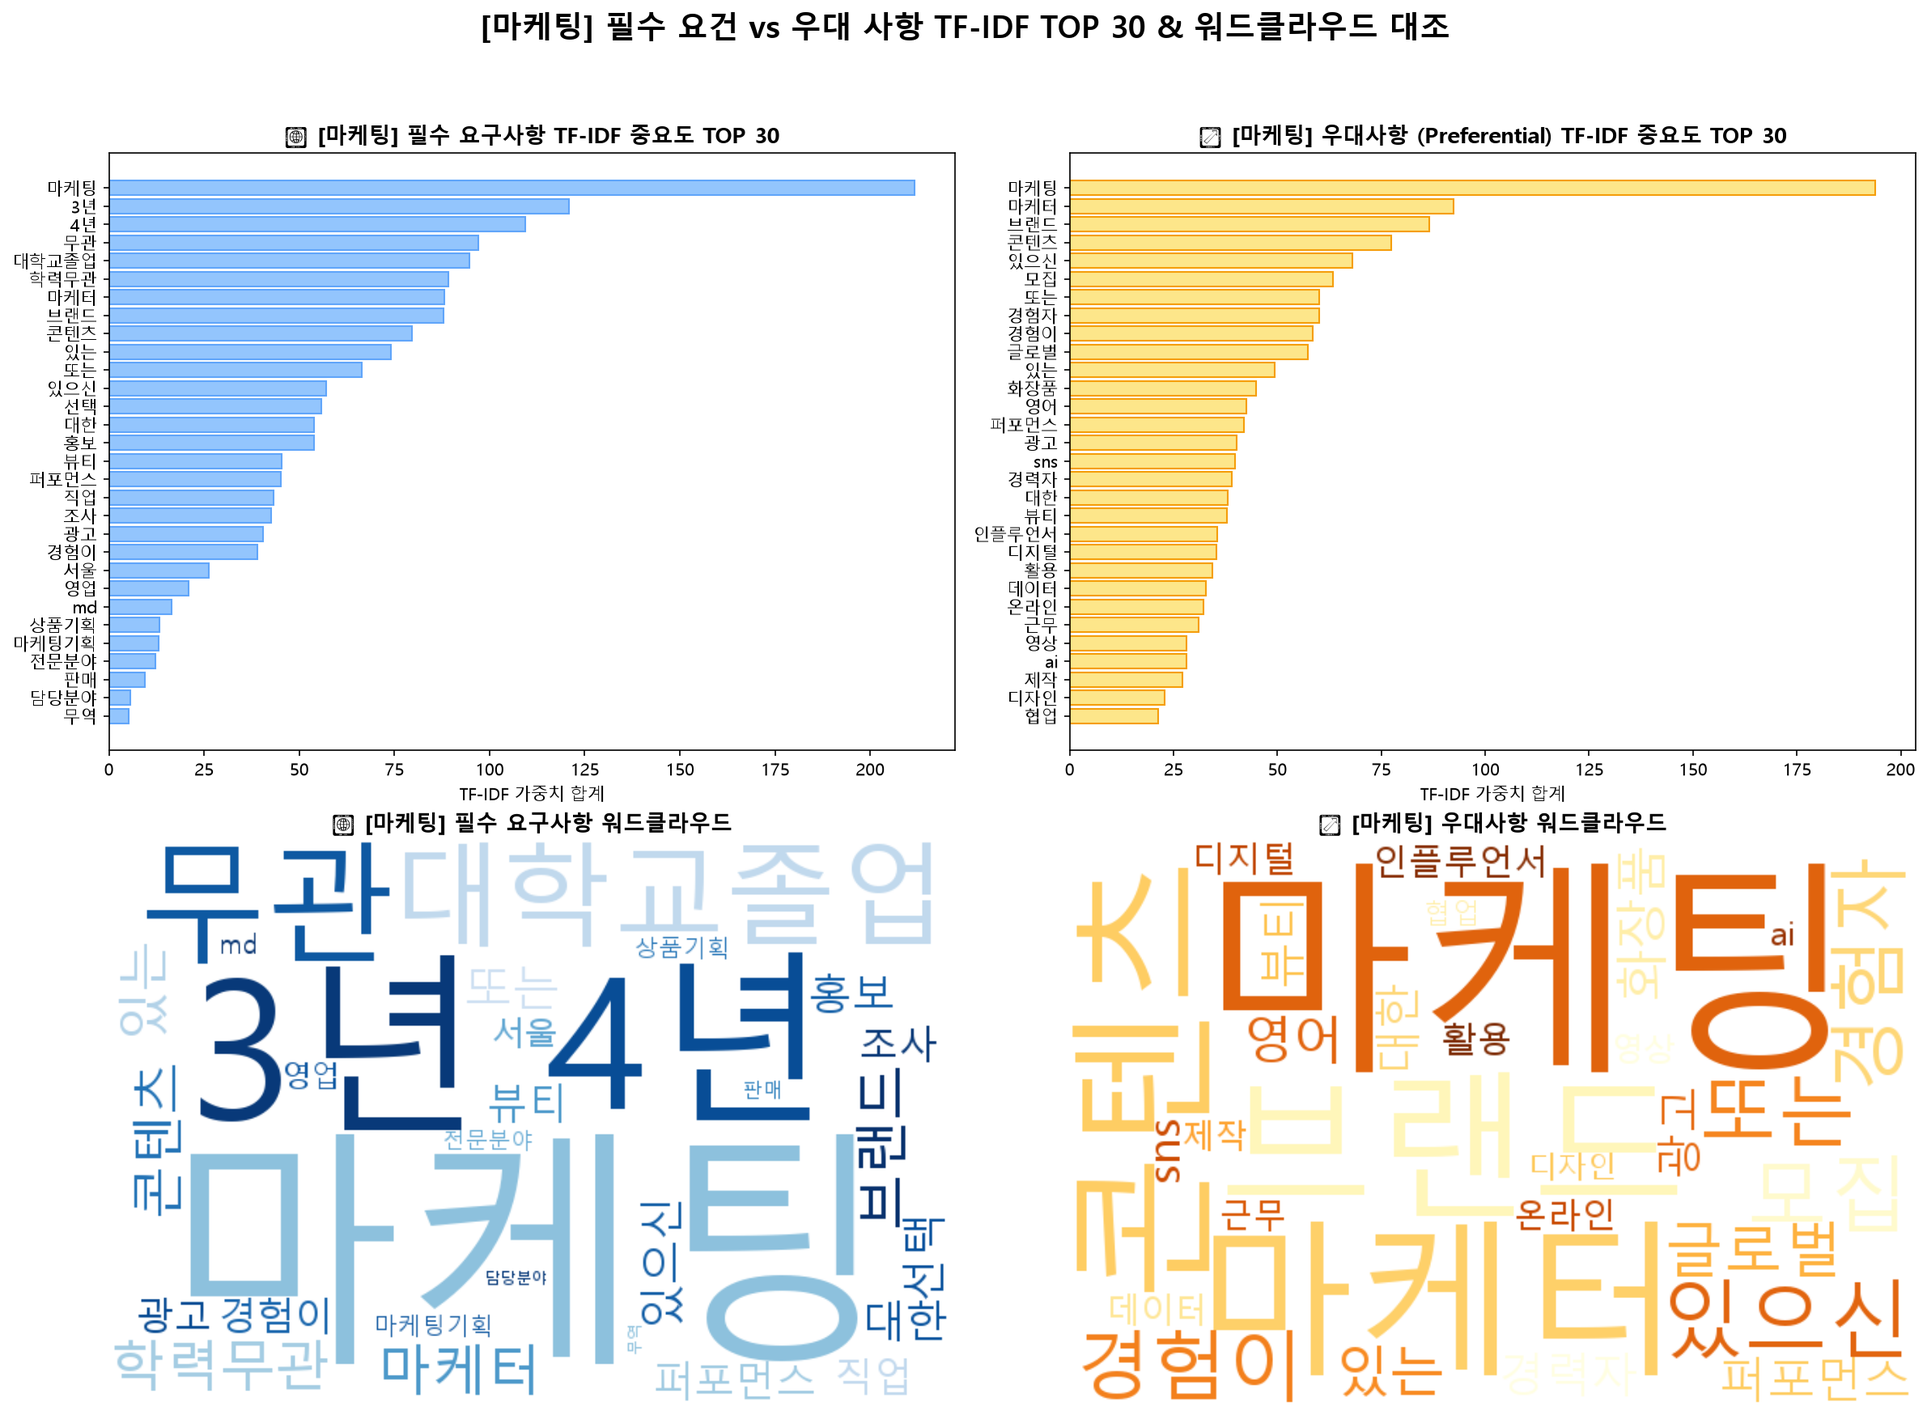
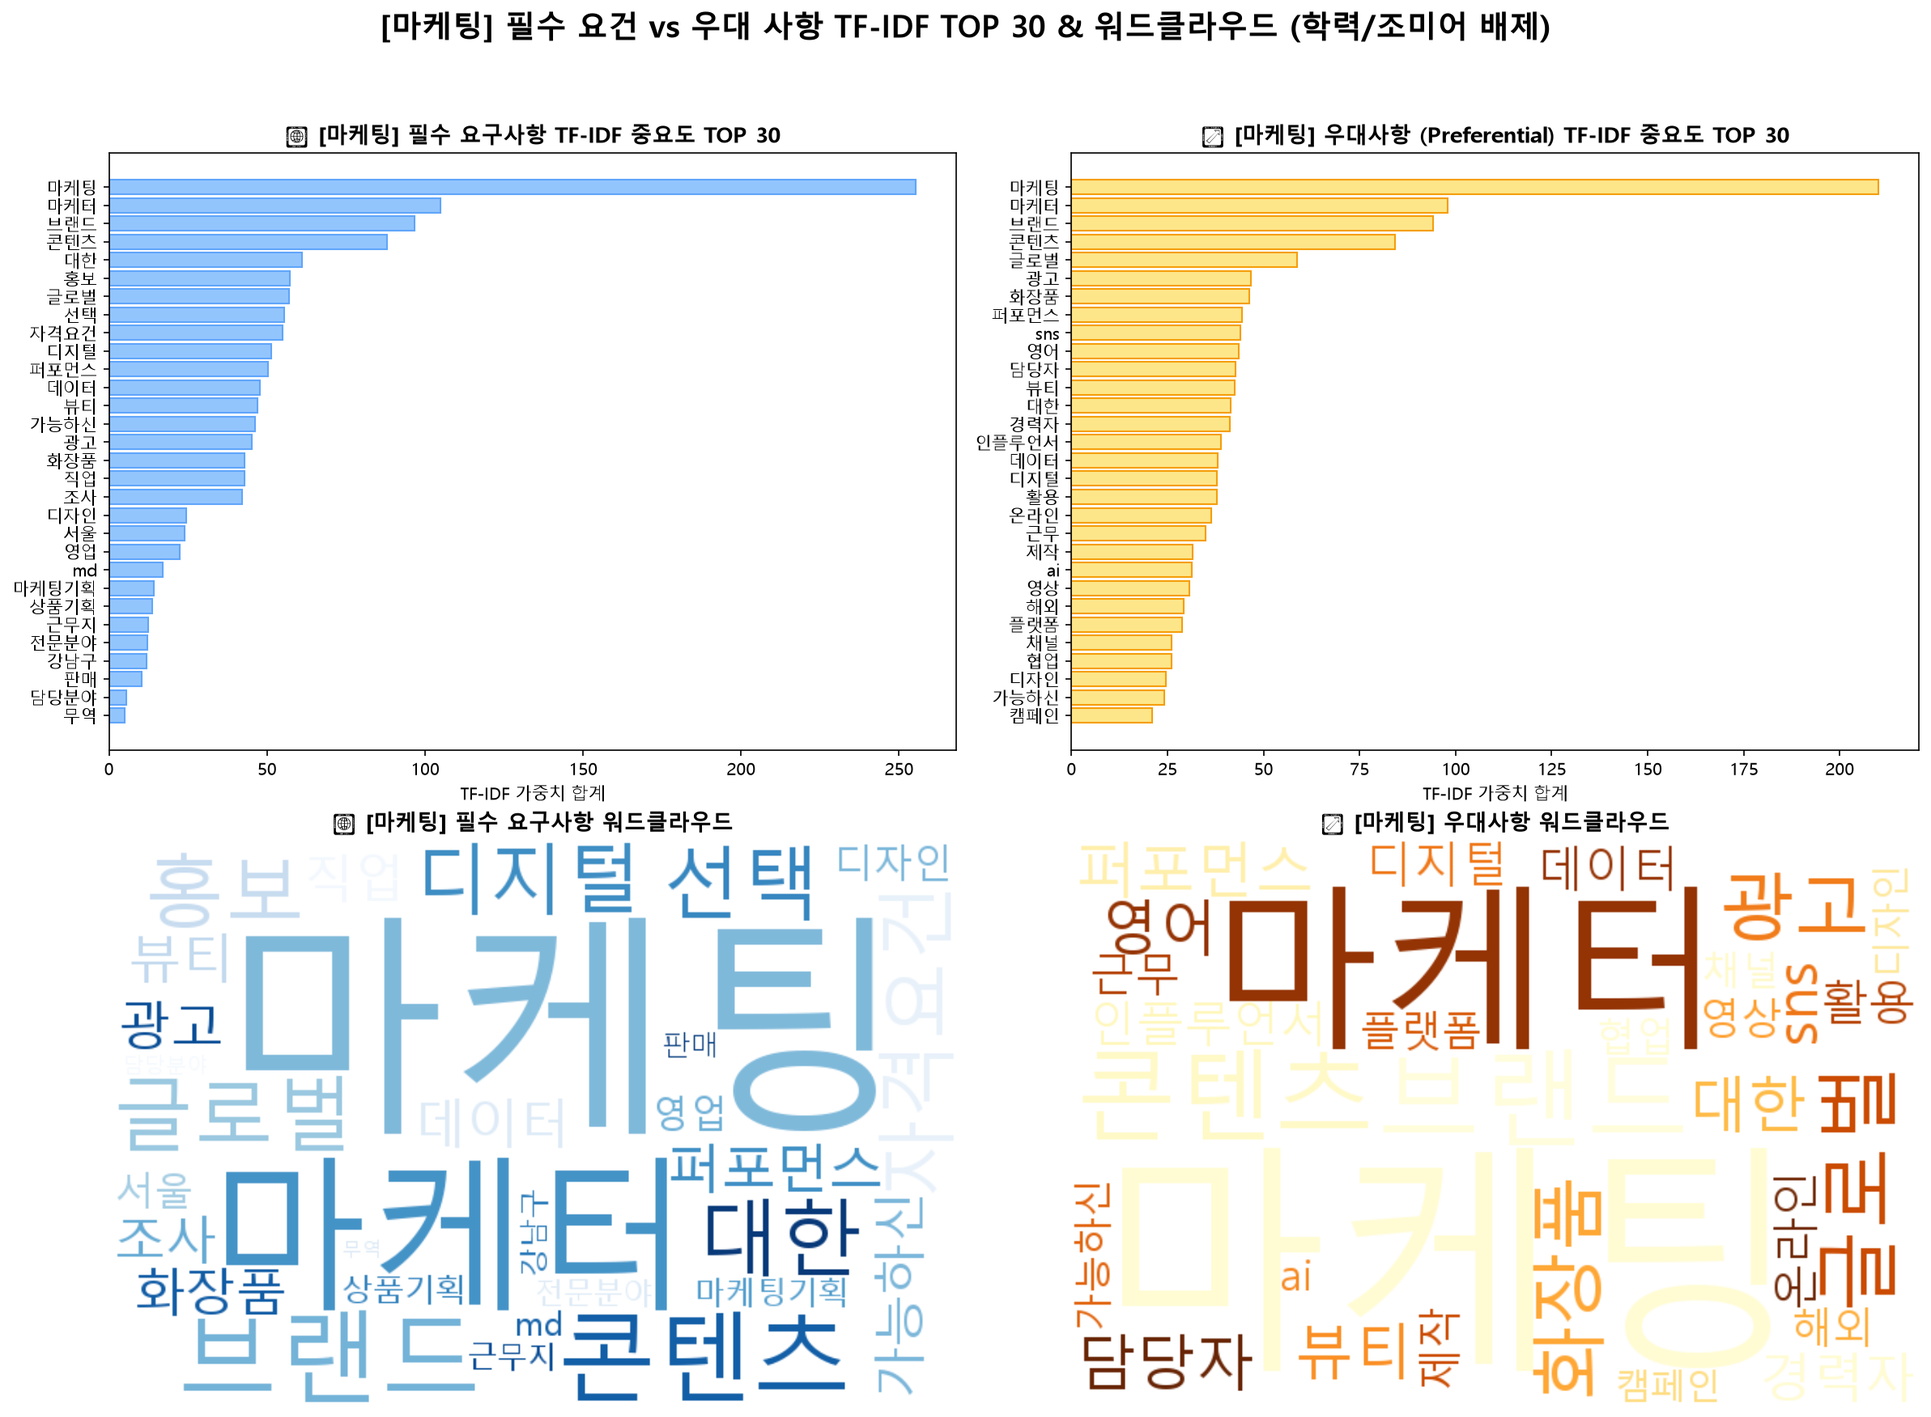
feat: 학력 관련 용어 및 서술어(또는, 있는, 있으신 등) 배제 불용어 정제 후 대시보드 및 EDA 보고서 TF-IDF/WordCloud 일괄 업데이트

diff --git a/report/dashboard_consolidated_mock.py b/report/dashboard_consolidated_mock.py
@@ -610,11 +610,17 @@ with tab0:
     # TF-IDF 및 불용어 고속 정제 헬퍼
     # ---------------------------------------------------------------------
     P1_STOPWORDS = set([
-        '우대', '기타', '작성', '관련', '제출', '포함', '가능자', '업무', '경험', '능력',
-        '이상', '보유자', '스킬', '담당', '직무', '성실', '원활', '커뮤니케이션', '우대사항',
-        '필수', '자격', '조건', '사항', '경력', '신입', '전공', '학력', '부문', '채용', '지원',
-        '가지', '통해', '기반', '수행', '분야', '상세', '확인', '내용', '진행', '이하', '미만',
-        '서비스', '관리', '구축', '운영', '개발', '분석', '기획', '전략', '지원자', '우대함'
+        '4년', '4년제', '대졸', '대학교졸업', '초대졸', '학력', '학력무관', '석사', '박사',
+        '졸업', '학위', '대학교', '대학', '대학원', '고졸', '전공', '학점', '재학', '수료',
+        '또는', '있는', '있으신', '경험자', '모집', '우수자', '경험이', '관련', '이상',
+        '우대', '기타', '작성', '제출', '포함', '가능자', '업무', '경험', '능력', '보유자',
+        '스킬', '담당', '직무', '성실', '원활', '커뮤니케이션', '우대사항', '필수', '자격',
+        '조건', '사항', '경력', '신입', '부문', '채용', '지원', '가지', '통해', '기반',
+        '수행', '분야', '상세', '확인', '내용', '진행', '이하', '미만', '서비스', '관리',
+        '구축', '운영', '개발', '분석', '기획', '전략', '지원자', '우대함', '가능', '관련학',
+        '관련학과', '소지자', '보유', '능숙자', '우대조건', '하여', '따른', '위한', '대해',
+        '따라', '통한', '있는자', '가능한', '자로서', '등의', '및', '관련된', '3년', '5년',
+        '1년', '2년', '10년', '무관', '년'
     ])
 
     def clean_p1_text(text):

diff --git a/report/saramin_naver_eda_report.md b/report/saramin_naver_eda_report.md
@@ -387,191 +387,191 @@ TF-IDF 텍스트 마이닝 기법을 적용하기 이전 단순 빈도 분석에
 
 ---
 
-## VI. 5대 직무별 필수 요구사항 vs 우대사항 TF-IDF 및 워드클라우드 세부 심층 EDA
+## VI. 5대 직무별 필수 요구사항 vs 우대사항 TF-IDF 및 워드클라우드 세부 심층 EDA (학력/조미어 배제 정밀 쿼리)
 
-본 섹션은 사람인 채용공고 5,000건 데이터셋(`recruit_processed.db`)에서 5대 직무별 공고 제목(title)과 필수 요건(requirement), 우대 사항(preferential) 텍스트를 공백으로 결합한 후, HTML 태그 및 불용어를 고속 전처리하여 추출한 **TF-IDF 상위 30개 키워드 서브플롯**과 **워드클라우드 서브플롯** 분석 결과입니다.
+본 섹션은 사람인 채용공고 5,000건 데이터셋(`recruit_processed.db`)에서 5대 직무별 공고 제목(title)과 필수 요건(requirement), 우대 사항(preferential) 텍스트를 공백으로 결합한 후, **학력 관련 용어(대졸, 4년제, 학력무관 등) 및 서술어/조미어(또는, 있는, 있으신, 경험자, 모집 등)를 전면 제거**하여 순수한 실무 기술/역량 키워드 중심으로 재추출한 **TF-IDF 상위 30개 키워드 서브플롯**과 **워드클라우드 서브플롯** 분석 결과입니다.
 
-### 기획/전략 직무: 필수 요구사항 vs 우대사항 텍스트 심층 분석
+### 기획/전략 직무: 필수 요구사항 vs 우대사항 텍스트 심층 분석 (학력/조미어 배제)
 
 ![기획/전략 TF-IDF & WordCloud](../images/plot11_plan_tfidf_wordcloud.png)
 
-#### [필수 자격 요건 TOP 10 TF-IDF 가중치 테이블]
+#### [필수 자격 요건 TOP 10 TF-IDF 가중치 테이블 (학력/조미어 배제)]
 | 순위 | 필수 키워드 | TF-IDF 가중치 |
 |:---:|:---|:---:|
-| 1 | 4년 | 145.26 |
-| 2 | 대학교졸업 | 132.16 |
-| 3 | 3년 | 131.22 |
-| 4 | 무관 | 100.47 |
-| 5 | 5년 | 93.15 |
-| 6 | 있는 | 89.45 |
-| 7 | 또는 | 84.69 |
-| 8 | 학력무관 | 78.40 |
-| 9 | 모집 | 74.10 |
-| 10 | 사업 | 72.29 |
+| 1 | 사업 | 81.16 |
+| 2 | 자격요건 | 66.73 |
+| 3 | 사업기획 | 64.02 |
+| 4 | 역량 | 55.32 |
+| 5 | 프로젝트 | 55.26 |
+| 6 | 대한 | 54.15 |
+| 7 | 문서 | 51.64 |
+| 8 | 가능하신 | 51.30 |
+| 9 | 글로벌 | 50.30 |
+| 10 | 비즈니스 | 48.70 |
 
-#### [우대사항 TOP 10 TF-IDF 가중치 테이블]
+#### [우대사항 TOP 10 TF-IDF 가중치 테이블 (학력/조미어 배제)]
 | 순위 | 우대 키워드 | TF-IDF 가중치 |
 |:---:|:---|:---:|
-| 1 | 또는 | 91.37 |
-| 2 | 경험자 | 87.69 |
-| 3 | 모집 | 70.54 |
-| 4 | 있으신 | 60.64 |
-| 5 | 사업 | 57.38 |
-| 6 | 프로젝트 | 55.32 |
-| 7 | 있는 | 52.70 |
-| 8 | 글로벌 | 51.17 |
-| 9 | 우수자 | 51.06 |
-| 10 | 경험이 | 49.98 |
+| 1 | 프로젝트 | 63.97 |
+| 2 | 사업 | 61.66 |
+| 3 | 담당자 | 58.32 |
+| 4 | 글로벌 | 55.18 |
+| 5 | 영어 | 54.41 |
+| 6 | 활용 | 52.59 |
+| 7 | 대한 | 52.53 |
+| 8 | ai | 51.04 |
+| 9 | 사업기획 | 50.45 |
+| 10 | 보유역량 | 43.19 |
 
 #### [기획/전략 데이터 분석 인사이트]
-**[기획/전략]** 직무 분석 결과, 필수 자격 요건에서는 **4년, 대학교졸업, 3년, 무관, 5년** 키워드가 핵심 서류 진입 장벽(Threshold)으로 나타났으며, 우대사항 영역에서는 **또는, 경험자, 모집, 있으신, 사업** 키워드가 면접 가산점 및 채용 결정의 주요 요소로 작동하고 있습니다.
+학력 관련 용어(대졸, 4년제 등) 및 서술어(또는, 있는, 있으신 등)를 전면 배제하고 정밀 재집계한 결과, **[기획/전략]** 직무의 필수 자격 항목에서는 **사업, 자격요건, 사업기획, 역량, 프로젝트** 스킬이 서류 합격의 핵심 기술 임계값으로 드러났으며, 우대사항 영역에서는 **프로젝트, 사업, 담당자, 글로벌, 영어** 기술이 면접 가산점의 핵심 경쟁력으로 작용하고 있습니다.
 
 ---
 
-### 인사/노무 직무: 필수 요구사항 vs 우대사항 텍스트 심층 분석
+### 인사/노무 직무: 필수 요구사항 vs 우대사항 텍스트 심층 분석 (학력/조미어 배제)
 
 ![인사/노무 TF-IDF & WordCloud](../images/plot12_hr_tfidf_wordcloud.png)
 
-#### [필수 자격 요건 TOP 10 TF-IDF 가중치 테이블]
+#### [필수 자격 요건 TOP 10 TF-IDF 가중치 테이블 (학력/조미어 배제)]
 | 순위 | 필수 키워드 | TF-IDF 가중치 |
 |:---:|:---|:---:|
-| 1 | 3년 | 153.58 |
-| 2 | 인사 | 141.66 |
-| 3 | 4년 | 126.34 |
-| 4 | hr | 114.60 |
-| 5 | 대학교졸업 | 113.75 |
-| 6 | 무관 | 104.77 |
-| 7 | 학력무관 | 93.44 |
-| 8 | 5년 | 85.10 |
-| 9 | 총무 | 81.62 |
-| 10 | 모집 | 80.76 |
+| 1 | 인사 | 168.67 |
+| 2 | hr | 134.87 |
+| 3 | 대학졸업 | 96.18 |
+| 4 | 총무 | 95.60 |
+| 5 | 담당자 | 82.17 |
+| 6 | 실무 | 66.47 |
+| 7 | 회계 | 64.62 |
+| 8 | 경영지원 | 57.39 |
+| 9 | 가능하신 | 56.17 |
+| 10 | 급여 | 55.52 |
 
-#### [우대사항 TOP 10 TF-IDF 가중치 테이블]
+#### [우대사항 TOP 10 TF-IDF 가중치 테이블 (학력/조미어 배제)]
 | 순위 | 우대 키워드 | TF-IDF 가중치 |
 |:---:|:---|:---:|
-| 1 | 인사 | 119.93 |
-| 2 | hr | 102.70 |
-| 3 | 모집 | 85.62 |
-| 4 | 경험자 | 81.34 |
-| 5 | 총무 | 73.47 |
-| 6 | 있으신 | 72.16 |
-| 7 | 담당자 | 64.36 |
-| 8 | 회계 | 63.35 |
-| 9 | 또는 | 57.19 |
-| 10 | 우수자 | 53.03 |
+| 1 | 인사 | 133.66 |
+| 2 | hr | 108.84 |
+| 3 | 총무 | 82.18 |
+| 4 | 담당자 | 70.02 |
+| 5 | 회계 | 67.33 |
+| 6 | 인사총무 | 56.90 |
+| 7 | 경력자 | 55.84 |
+| 8 | 근무 | 55.27 |
+| 9 | 경력직 | 53.54 |
+| 10 | 경영지원 | 52.07 |
 
 #### [인사/노무 데이터 분석 인사이트]
-**[인사/노무]** 직무 분석 결과, 필수 자격 요건에서는 **3년, 인사, 4년, hr, 대학교졸업** 키워드가 핵심 서류 진입 장벽(Threshold)으로 나타났으며, 우대사항 영역에서는 **인사, hr, 모집, 경험자, 총무** 키워드가 면접 가산점 및 채용 결정의 주요 요소로 작동하고 있습니다.
+학력 관련 용어(대졸, 4년제 등) 및 서술어(또는, 있는, 있으신 등)를 전면 배제하고 정밀 재집계한 결과, **[인사/노무]** 직무의 필수 자격 항목에서는 **인사, hr, 대학졸업, 총무, 담당자** 스킬이 서류 합격의 핵심 기술 임계값으로 드러났으며, 우대사항 영역에서는 **인사, hr, 총무, 담당자, 회계** 기술이 면접 가산점의 핵심 경쟁력으로 작용하고 있습니다.
 
 ---
 
-### 회계/재무 직무: 필수 요구사항 vs 우대사항 텍스트 심층 분석
+### 회계/재무 직무: 필수 요구사항 vs 우대사항 텍스트 심층 분석 (학력/조미어 배제)
 
 ![회계/재무 TF-IDF & WordCloud](../images/plot13_acc_tfidf_wordcloud.png)
 
-#### [필수 자격 요건 TOP 10 TF-IDF 가중치 테이블]
+#### [필수 자격 요건 TOP 10 TF-IDF 가중치 테이블 (학력/조미어 배제)]
 | 순위 | 필수 키워드 | TF-IDF 가중치 |
 |:---:|:---|:---:|
-| 1 | 회계 | 153.70 |
-| 2 | 3년 | 126.93 |
-| 3 | 4년 | 99.40 |
-| 4 | 무관 | 96.04 |
-| 5 | 학력무관 | 90.84 |
-| 6 | 대학교졸업 | 85.68 |
-| 7 | 대학졸업 | 73.85 |
-| 8 | 모집 | 68.04 |
-| 9 | 5년 | 67.85 |
-| 10 | 재무 | 67.08 |
+| 1 | 회계 | 180.59 |
+| 2 | 대학졸업 | 97.32 |
+| 3 | 재무 | 76.41 |
+| 4 | 세무 | 74.38 |
+| 5 | 담당자 | 69.80 |
+| 6 | 경력직 | 68.27 |
+| 7 | 재무회계 | 62.40 |
+| 8 | 자격요건 | 53.00 |
+| 9 | 가능하신 | 52.85 |
+| 10 | 활용 | 52.19 |
 
-#### [우대사항 TOP 10 TF-IDF 가중치 테이블]
+#### [우대사항 TOP 10 TF-IDF 가중치 테이블 (학력/조미어 배제)]
 | 순위 | 우대 키워드 | TF-IDF 가중치 |
 |:---:|:---|:---:|
-| 1 | 회계 | 162.05 |
-| 2 | 모집 | 78.12 |
-| 3 | 경험자 | 76.79 |
-| 4 | 자격증 | 74.52 |
-| 5 | 있으신 | 69.43 |
-| 6 | 담당자 | 64.98 |
-| 7 | 경력직 | 59.99 |
-| 8 | 세무 | 57.46 |
-| 9 | 재무회계 | 56.36 |
-| 10 | 근무 | 54.01 |
+| 1 | 회계 | 178.82 |
+| 2 | 자격증 | 84.17 |
+| 3 | 담당자 | 70.43 |
+| 4 | 경력직 | 63.44 |
+| 5 | 세무 | 61.57 |
+| 6 | 재무 | 61.27 |
+| 7 | 재무회계 | 59.24 |
+| 8 | 근무 | 57.23 |
+| 9 | 사용 | 56.25 |
+| 10 | 더존 | 53.24 |
 
 #### [회계/재무 데이터 분석 인사이트]
-**[회계/재무]** 직무 분석 결과, 필수 자격 요건에서는 **회계, 3년, 4년, 무관, 학력무관** 키워드가 핵심 서류 진입 장벽(Threshold)으로 나타났으며, 우대사항 영역에서는 **회계, 모집, 경험자, 자격증, 있으신** 키워드가 면접 가산점 및 채용 결정의 주요 요소로 작동하고 있습니다.
+학력 관련 용어(대졸, 4년제 등) 및 서술어(또는, 있는, 있으신 등)를 전면 배제하고 정밀 재집계한 결과, **[회계/재무]** 직무의 필수 자격 항목에서는 **회계, 대학졸업, 재무, 세무, 담당자** 스킬이 서류 합격의 핵심 기술 임계값으로 드러났으며, 우대사항 영역에서는 **회계, 자격증, 담당자, 경력직, 세무** 기술이 면접 가산점의 핵심 경쟁력으로 작용하고 있습니다.
 
 ---
 
-### 마케팅 직무: 필수 요구사항 vs 우대사항 텍스트 심층 분석
+### 마케팅 직무: 필수 요구사항 vs 우대사항 텍스트 심층 분석 (학력/조미어 배제)
 
 ![마케팅 TF-IDF & WordCloud](../images/plot14_mkt_tfidf_wordcloud.png)
 
-#### [필수 자격 요건 TOP 10 TF-IDF 가중치 테이블]
+#### [필수 자격 요건 TOP 10 TF-IDF 가중치 테이블 (학력/조미어 배제)]
 | 순위 | 필수 키워드 | TF-IDF 가중치 |
 |:---:|:---|:---:|
-| 1 | 마케팅 | 211.62 |
-| 2 | 3년 | 120.87 |
-| 3 | 4년 | 109.40 |
-| 4 | 무관 | 96.95 |
-| 5 | 대학교졸업 | 94.77 |
-| 6 | 학력무관 | 89.12 |
-| 7 | 마케터 | 88.12 |
-| 8 | 브랜드 | 87.93 |
-| 9 | 콘텐츠 | 79.52 |
-| 10 | 있는 | 74.01 |
+| 1 | 마케팅 | 255.36 |
+| 2 | 마케터 | 104.94 |
+| 3 | 브랜드 | 96.64 |
+| 4 | 콘텐츠 | 87.94 |
+| 5 | 대한 | 61.19 |
+| 6 | 홍보 | 57.12 |
+| 7 | 글로벌 | 57.04 |
+| 8 | 선택 | 55.50 |
+| 9 | 자격요건 | 54.96 |
+| 10 | 디지털 | 51.47 |
 
-#### [우대사항 TOP 10 TF-IDF 가중치 테이블]
+#### [우대사항 TOP 10 TF-IDF 가중치 테이블 (학력/조미어 배제)]
 | 순위 | 우대 키워드 | TF-IDF 가중치 |
 |:---:|:---|:---:|
-| 1 | 마케팅 | 193.86 |
-| 2 | 마케터 | 92.45 |
-| 3 | 브랜드 | 86.49 |
-| 4 | 콘텐츠 | 77.30 |
-| 5 | 있으신 | 67.99 |
-| 6 | 모집 | 63.35 |
-| 7 | 또는 | 60.05 |
-| 8 | 경험자 | 59.95 |
-| 9 | 경험이 | 58.52 |
-| 10 | 글로벌 | 57.41 |
+| 1 | 마케팅 | 210.08 |
+| 2 | 마케터 | 98.01 |
+| 3 | 브랜드 | 94.18 |
+| 4 | 콘텐츠 | 84.17 |
+| 5 | 글로벌 | 58.63 |
+| 6 | 광고 | 46.68 |
+| 7 | 화장품 | 46.39 |
+| 8 | 퍼포먼스 | 44.46 |
+| 9 | sns | 43.88 |
+| 10 | 영어 | 43.59 |
 
 #### [마케팅 데이터 분석 인사이트]
-**[마케팅]** 직무 분석 결과, 필수 자격 요건에서는 **마케팅, 3년, 4년, 무관, 대학교졸업** 키워드가 핵심 서류 진입 장벽(Threshold)으로 나타났으며, 우대사항 영역에서는 **마케팅, 마케터, 브랜드, 콘텐츠, 있으신** 키워드가 면접 가산점 및 채용 결정의 주요 요소로 작동하고 있습니다.
+학력 관련 용어(대졸, 4년제 등) 및 서술어(또는, 있는, 있으신 등)를 전면 배제하고 정밀 재집계한 결과, **[마케팅]** 직무의 필수 자격 항목에서는 **마케팅, 마케터, 브랜드, 콘텐츠, 대한** 스킬이 서류 합격의 핵심 기술 임계값으로 드러났으며, 우대사항 영역에서는 **마케팅, 마케터, 브랜드, 콘텐츠, 글로벌** 기술이 면접 가산점의 핵심 경쟁력으로 작용하고 있습니다.
 
 ---
 
-### 데이터분석가/AI엔지니어 직무: 필수 요구사항 vs 우대사항 텍스트 심층 분석
+### 데이터분석가/AI엔지니어 직무: 필수 요구사항 vs 우대사항 텍스트 심층 분석 (학력/조미어 배제)
 
 ![데이터분석가/AI엔지니어 TF-IDF & WordCloud](../images/plot15_dev_tfidf_wordcloud.png)
 
-#### [필수 자격 요건 TOP 10 TF-IDF 가중치 테이블]
+#### [필수 자격 요건 TOP 10 TF-IDF 가중치 테이블 (학력/조미어 배제)]
 | 순위 | 필수 키워드 | TF-IDF 가중치 |
 |:---:|:---|:---:|
-| 1 | 3년 | 136.50 |
-| 2 | 개발자 | 121.83 |
-| 3 | 4년 | 103.43 |
-| 4 | ai | 95.96 |
-| 5 | 학력무관 | 95.44 |
-| 6 | java | 94.04 |
-| 7 | 또는 | 90.70 |
-| 8 | 백엔드 | 88.70 |
-| 9 | 있는 | 88.47 |
-| 10 | 5년 | 86.64 |
+| 1 | 개발자 | 159.60 |
+| 2 | ai | 113.80 |
+| 3 | java | 106.42 |
+| 4 | 백엔드 | 100.16 |
+| 5 | 대학졸업 | 98.06 |
+| 6 | 설계 | 84.90 |
+| 7 | 대한 | 77.94 |
+| 8 | api | 68.98 |
+| 9 | 시스템 | 65.15 |
+| 10 | spring | 59.51 |
 
-#### [우대사항 TOP 10 TF-IDF 가중치 테이블]
+#### [우대사항 TOP 10 TF-IDF 가중치 테이블 (학력/조미어 배제)]
 | 순위 | 우대 키워드 | TF-IDF 가중치 |
 |:---:|:---|:---:|
-| 1 | 개발자 | 141.31 |
-| 2 | ai | 113.05 |
-| 3 | 또는 | 94.24 |
-| 4 | 경험자 | 93.74 |
-| 5 | 있으신 | 88.36 |
-| 6 | 모집 | 85.66 |
-| 7 | 프로젝트 | 82.33 |
-| 8 | 경험이 | 74.80 |
-| 9 | 시스템 | 73.91 |
-| 10 | 백엔드 | 72.34 |
+| 1 | 개발자 | 158.92 |
+| 2 | ai | 129.18 |
+| 3 | 프로젝트 | 96.16 |
+| 4 | 시스템 | 83.91 |
+| 5 | 백엔드 | 78.37 |
+| 6 | 자격증 | 73.79 |
+| 7 | java | 69.76 |
+| 8 | 데이터 | 68.66 |
+| 9 | 설계 | 59.88 |
+| 10 | 대한 | 55.08 |
 
 #### [데이터분석가/AI엔지니어 데이터 분석 인사이트]
-**[데이터분석가/AI엔지니어]** 직무 분석 결과, 필수 자격 요건에서는 **3년, 개발자, 4년, ai, 학력무관** 키워드가 핵심 서류 진입 장벽(Threshold)으로 나타났으며, 우대사항 영역에서는 **개발자, ai, 또는, 경험자, 있으신** 키워드가 면접 가산점 및 채용 결정의 주요 요소로 작동하고 있습니다.
+학력 관련 용어(대졸, 4년제 등) 및 서술어(또는, 있는, 있으신 등)를 전면 배제하고 정밀 재집계한 결과, **[데이터분석가/AI엔지니어]** 직무의 필수 자격 항목에서는 **개발자, ai, java, 백엔드, 대학졸업** 스킬이 서류 합격의 핵심 기술 임계값으로 드러났으며, 우대사항 영역에서는 **개발자, ai, 프로젝트, 시스템, 백엔드** 기술이 면접 가산점의 핵심 경쟁력으로 작용하고 있습니다.
 
 ---
